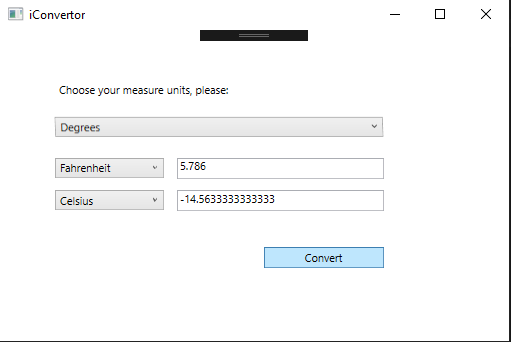
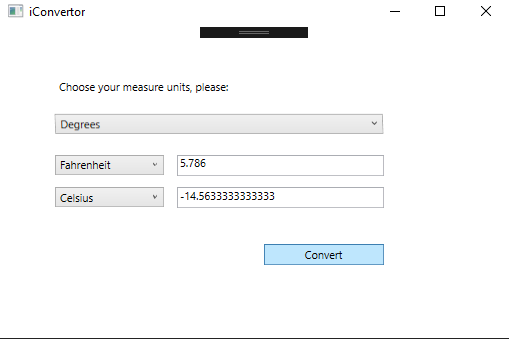
Updated README

diff --git a/iConvertor/MainWindow.xaml b/iConvertor/MainWindow.xaml
@@ -9,7 +9,7 @@
         Title="iConvertor" Height="350" Width="525" MinHeight="350" MinWidth="525">
     <Viewbox>
         <Canvas Height="279" Width="560">
-            <ComboBox x:Name="comboBox1" HorizontalAlignment="Left" VerticalAlignment="Top" Width="361" Grid.Column="1" Height="22" Canvas.Top="64" Canvas.Left="60" RenderTransformOrigin="0.5,0.5" SelectedIndex="0">
+            <ComboBox x:Name="comboBox1" HorizontalAlignment="Left" VerticalAlignment="Top" Width="137" Grid.Column="1" Height="22" Canvas.Top="26" Canvas.Left="329" RenderTransformOrigin="0.5,0.5" SelectedIndex="0">
                 <ComboBox.RenderTransform>
                     <TransformGroup>
                         <ScaleTransform/>
@@ -26,7 +26,7 @@
             </ComboBox>
 
 
-            <ComboBox x:Name="comboBox2" HorizontalAlignment="Left" VerticalAlignment="Top" Width="120" Grid.Column="1" Height="22" Canvas.Top="109" Canvas.Left="60" SelectedIndex="0">
+            <ComboBox x:Name="comboBox2" HorizontalAlignment="Left" VerticalAlignment="Top" Width="140" Grid.Column="1" Height="22" Canvas.Top="96" Canvas.Left="328" SelectedIndex="0">
 
                 <System:String>Fahrenheit</System:String>
                 <System:String>Celsius</System:String>
@@ -46,28 +46,32 @@
                 <System:String>milliseconds</System:String>
 
             </ComboBox>
-            <ComboBox x:Name="comboBox3" HorizontalAlignment="Left" VerticalAlignment="Top" Width="120" Grid.Column="1" Height="22" Canvas.Top="145" Canvas.Left="60" SelectedIndex="1">
-            <System:String>Fahrenheit</System:String>
-            <System:String>Celsius</System:String>
-            <System:String>km</System:String>
-            <System:String>m</System:String>
-            <System:String>sm</System:String>
-            <System:String>inch</System:String>
-            <System:String>yard</System:String>
-            <System:String>foot</System:String>
-            <System:String>kg</System:String>
-            <System:String>g</System:String>
-            <System:String>ounce</System:String>
-            <System:String>pound</System:String>
-            <System:String>tone</System:String>
-            <System:String>minutes</System:String>
-            <System:String>seconds</System:String>
-            <System:String>milliseconds</System:String>
+            <ComboBox x:Name="comboBox3" HorizontalAlignment="Left" VerticalAlignment="Top" Width="140" Grid.Column="1" Height="22" Canvas.Top="130" Canvas.Left="328" SelectedIndex="1">
+                <System:String>Fahrenheit</System:String>
+                <System:String>Celsius</System:String>
+                <System:String>km</System:String>
+                <System:String>m</System:String>
+                <System:String>sm</System:String>
+                <System:String>inch</System:String>
+                <System:String>yard</System:String>
+                <System:String>foot</System:String>
+                <System:String>kg</System:String>
+                <System:String>g</System:String>
+                <System:String>ounce</System:String>
+                <System:String>pound</System:String>
+                <System:String>tone</System:String>
+                <System:String>minutes</System:String>
+                <System:String>seconds</System:String>
+                <System:String>milliseconds</System:String>
             </ComboBox>
-            <TextBox x:Name="textBox1" Grid.Column="1" HorizontalAlignment="Left" Height="23" TextWrapping="Wrap" VerticalAlignment="Top" Width="227" Canvas.Left="195" Canvas.Top="109"/>
-            <TextBox x:Name="textBox2" Grid.Column="1" HorizontalAlignment="Left" Height="23" TextWrapping="Wrap" VerticalAlignment="Top" Width="227" Canvas.Left="195" Canvas.Top="145" IsReadOnly="True"/>
-            <Button x:Name="button" Content="Convert" HorizontalAlignment="Left" VerticalAlignment="Top" Width="132" Height="23" Grid.Column="1" Canvas.Left="290" Canvas.Top="207" RenderTransformOrigin="1.032,0.656" Click="button_Click"/>
-            <Label x:Name="label" Content="Choose your measure units, please:" Canvas.Left="60" Canvas.Top="21"/>
+            <TextBox x:Name="textBox1" Grid.Column="1" HorizontalAlignment="Left" Height="23" TextWrapping="Wrap" VerticalAlignment="Top" Width="140" Canvas.Left="328" Canvas.Top="61"/>
+            <TextBox x:Name="textBox2" Grid.Column="1" HorizontalAlignment="Left" Height="23" TextWrapping="Wrap" VerticalAlignment="Top" Width="140" Canvas.Left="328" Canvas.Top="167" IsReadOnly="True"/>
+            <Button x:Name="button" Content="Convert" HorizontalAlignment="Left" VerticalAlignment="Top" Width="132" Height="23" Grid.Column="1" Canvas.Left="336" Canvas.Top="230" RenderTransformOrigin="1.032,0.656" Click="button_Click"/>
+            <Label x:Name="label" Content="Choose your measure units, please:" Canvas.Left="24" Canvas.Top="21"/>
+            <Label x:Name="label1" Content="Enter you Value in the Input field below, please:" Canvas.Left="24" Canvas.Top="61" Width="263" Height="29"/>
+            <Label x:Name="label2" Content="Choose from which Measurement unit Convert to:" Canvas.Left="24" Canvas.Top="94"/>
+            <Label x:Name="label3" Content="Choose to which Measurement unit Convert to:" Canvas.Left="24" Canvas.Top="125"/>
+            <Label x:Name="label4" Content="This is the Result:" Canvas.Left="24" Canvas.Top="167"/>
 
 
 
